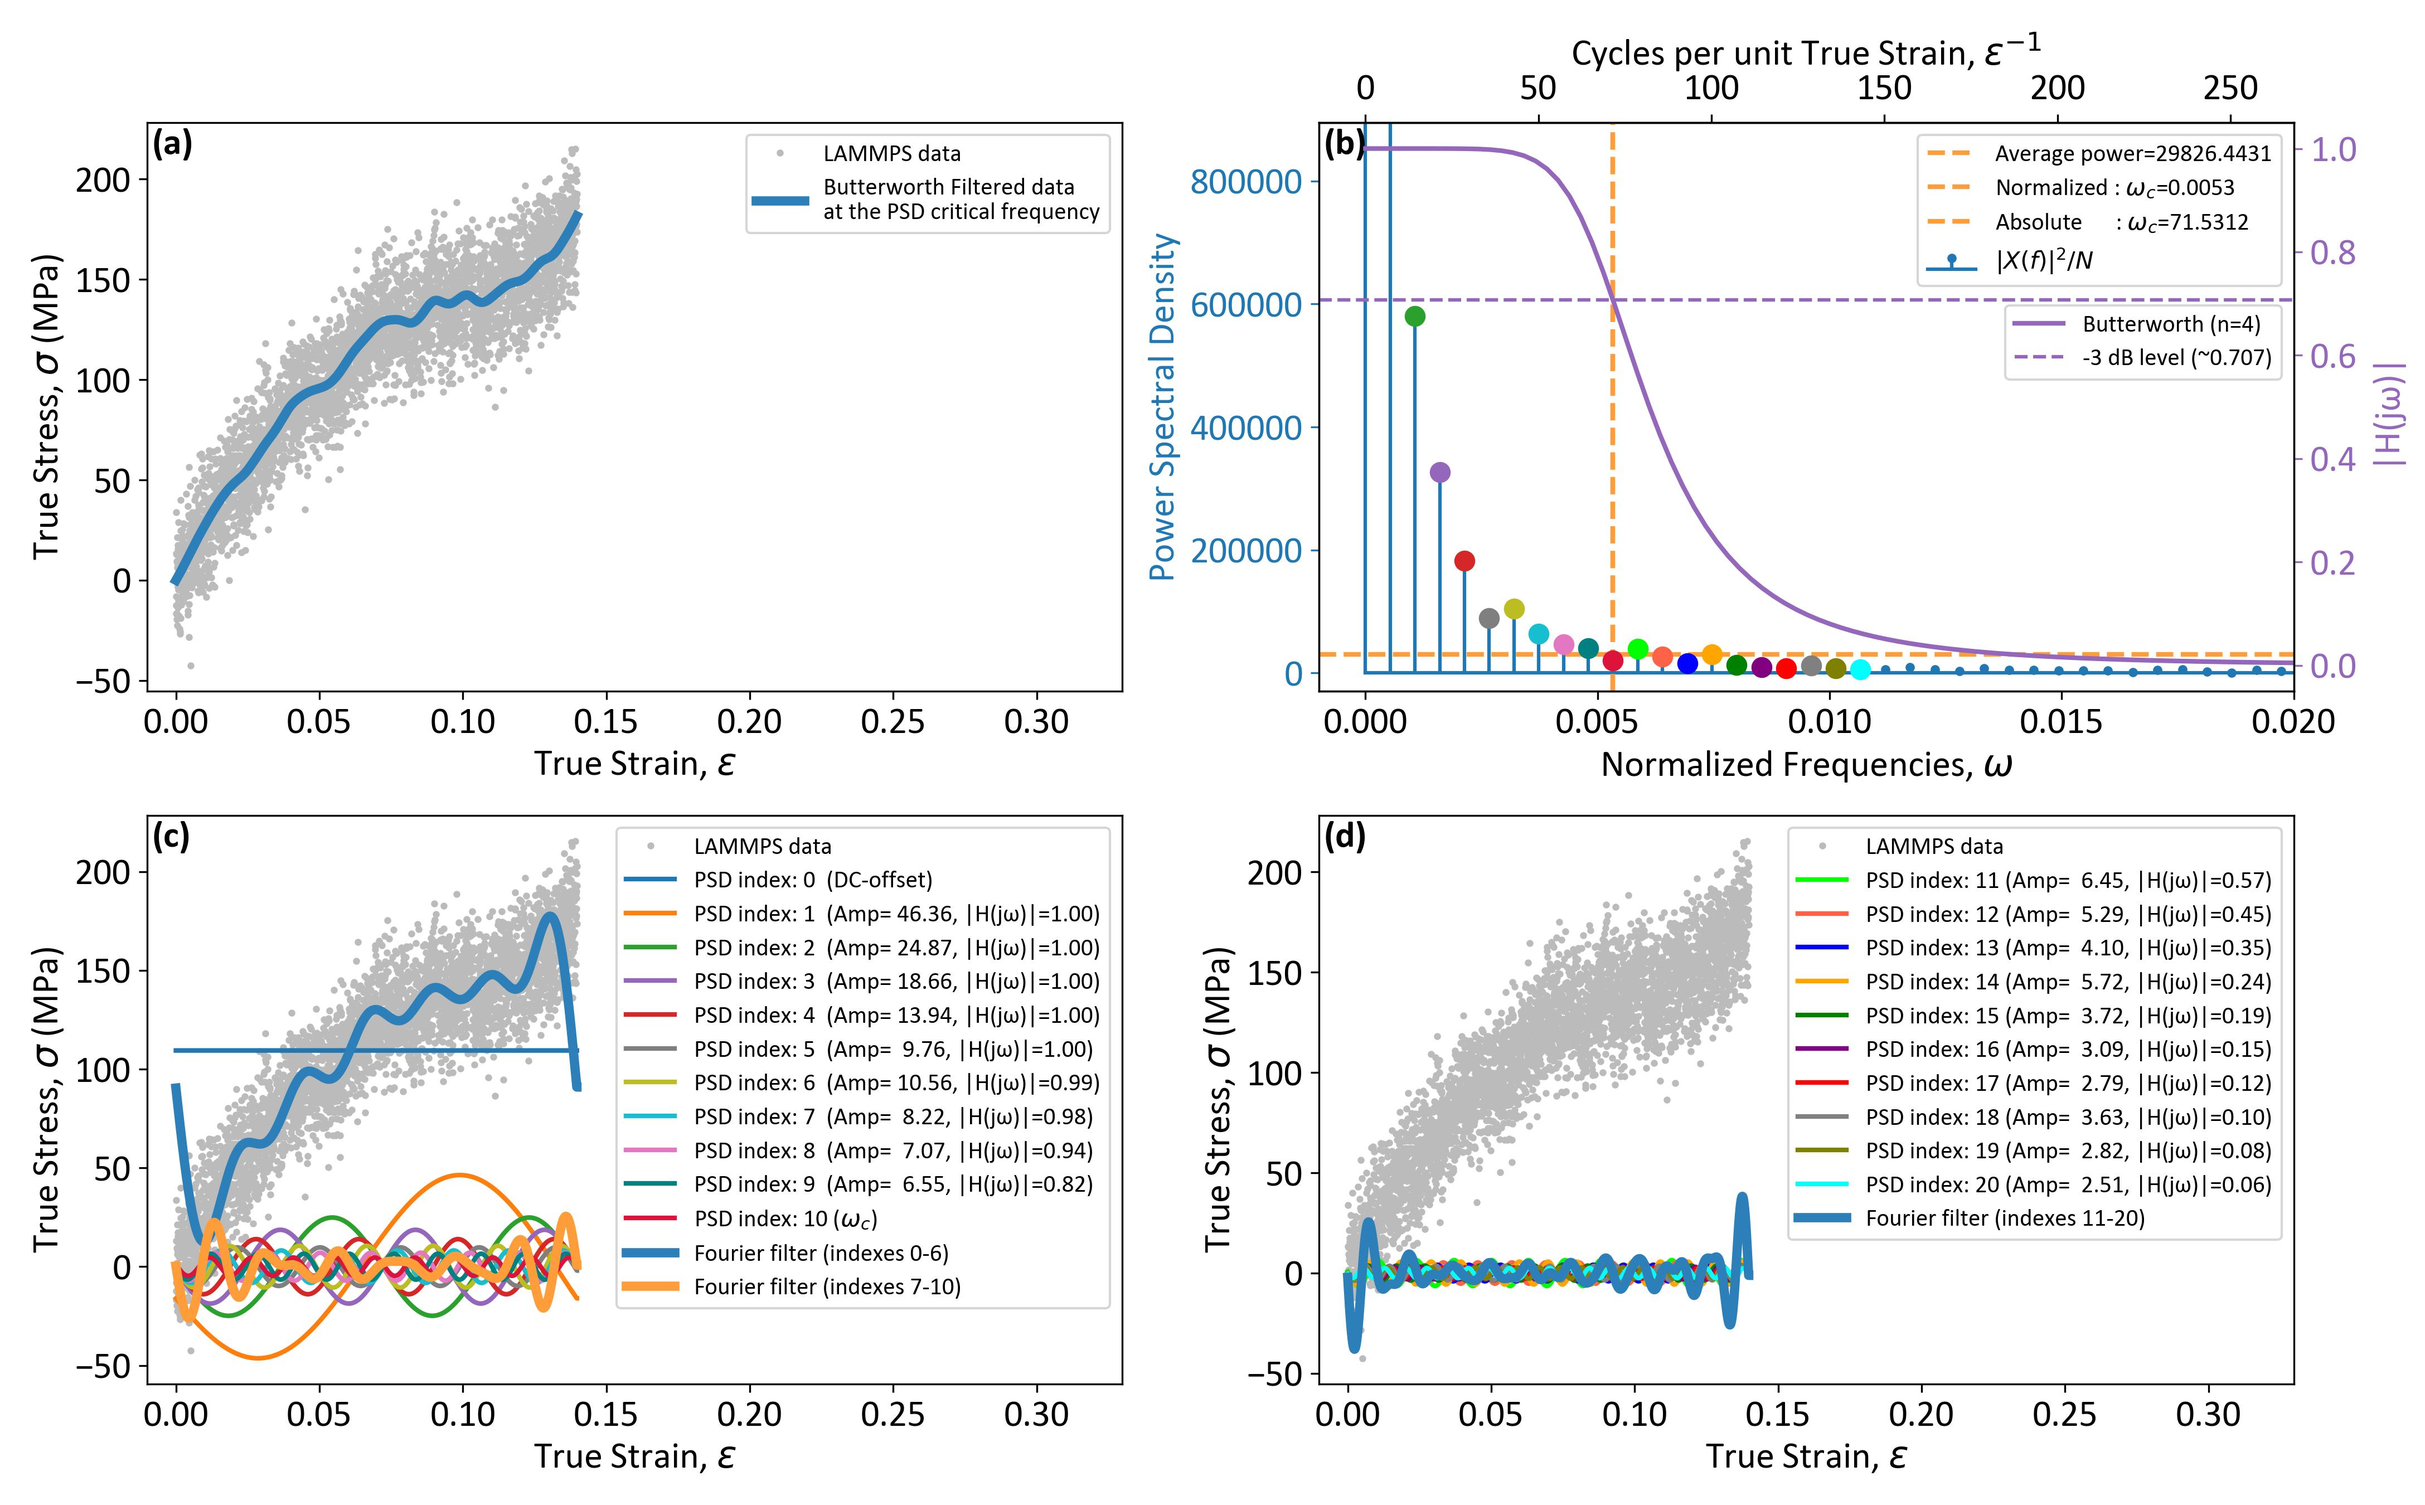
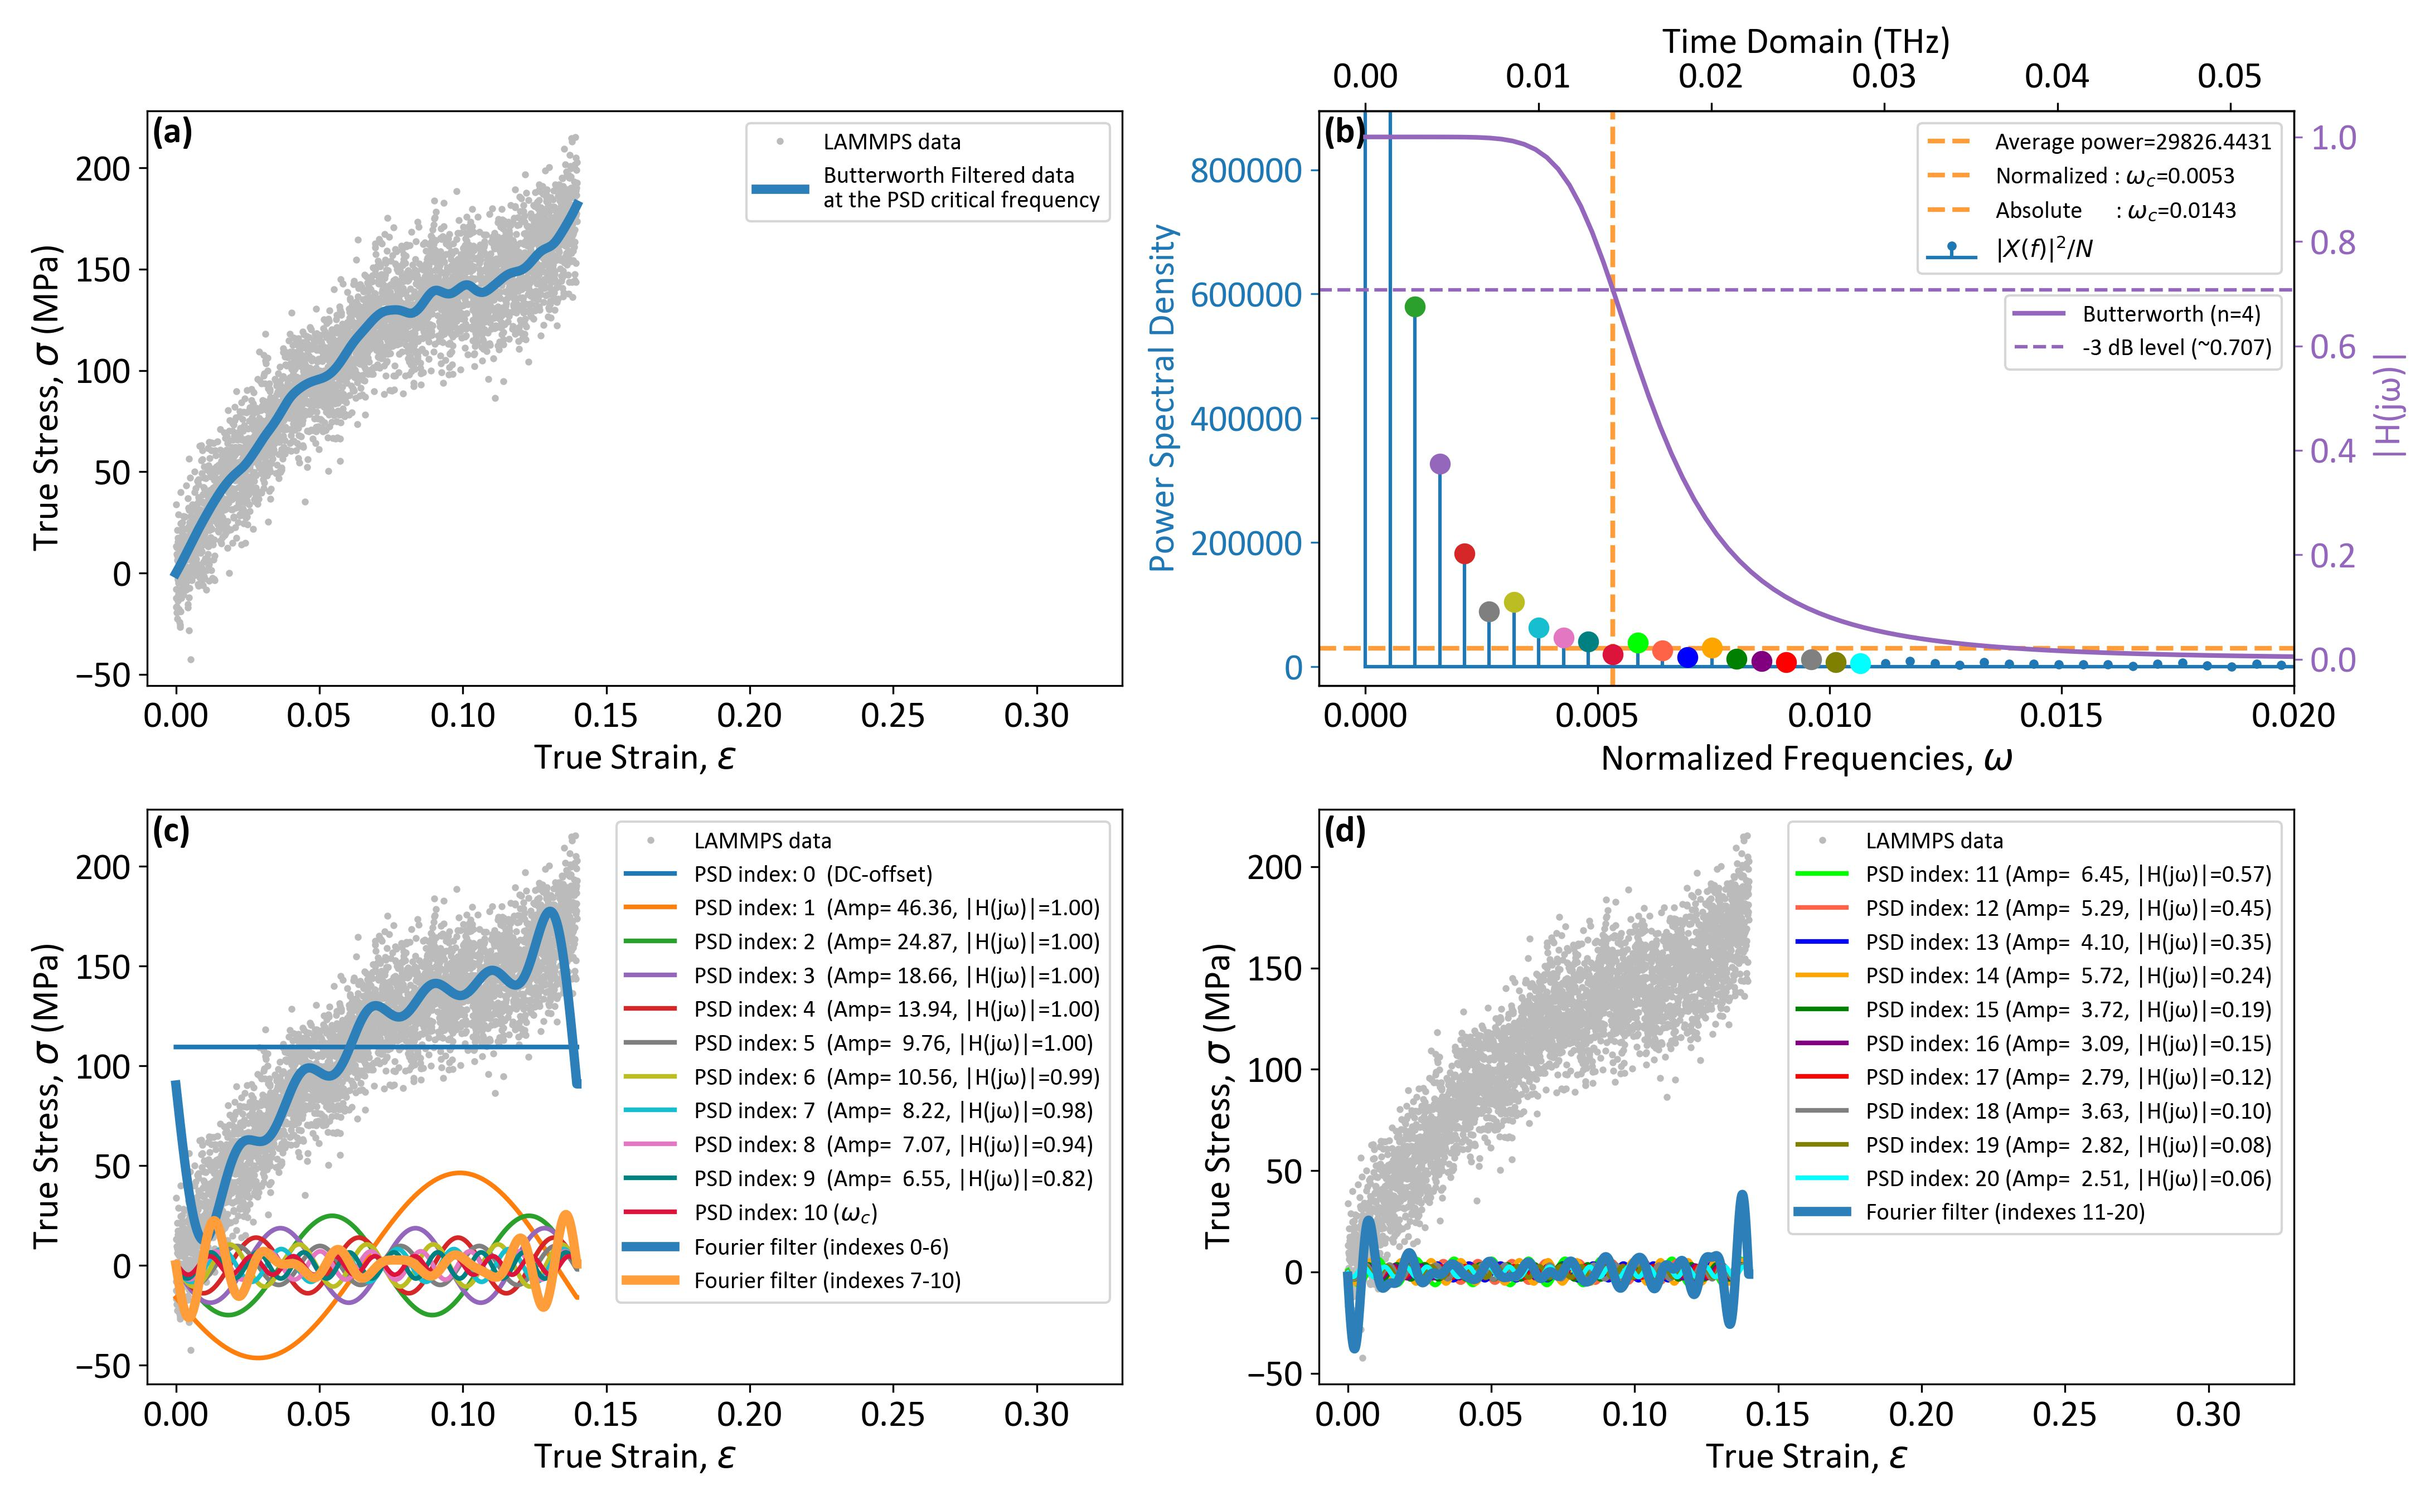
A few more minor revision to plot axis labels

diff --git a/Fourier_breakdown.py b/Fourier_breakdown.py
@@ -54,19 +54,22 @@ import scipy as sp
 logfile = 'logfiles/tensile_1_EPON_862_pxld_86.8_replicate_4_FF_PCFF.log.lammps'
 strain_direction = 'x'
 
-# logfile = 'logfiles/tensile_3_PBZ_pxld_87_replicate_5_FF_PCFF.log.lammps'
-# strain_direction = 'z'
+logfile = 'logfiles/tensile_3_PBZ_pxld_87_replicate_5_FF_PCFF.log.lammps'
+strain_direction = 'z'
 
-# logfile = 'logfiles/tensile_2_AroCy_L10_pxld_97_replicate_1_FF_PCFF.log.lammps'
-# strain_direction = 'y'
+logfile = 'logfiles/tensile_2_AroCy_L10_pxld_97_replicate_1_FF_PCFF.log.lammps'
+strain_direction = 'y'
 
-# logfile = 'logfiles/tensile_1_PEEK_pxld_90_replicate_3_FF_PCFF.log.lammps'
-# strain_direction = 'x'
+logfile = 'logfiles/tensile_1_PEEK_pxld_90_replicate_3_FF_PCFF.log.lammps'
+strain_direction = 'x'
 
 
 # Set some column keywords to find sections in logfile with thermo data.
 # *NOTE: You minimally need one keyword where 'Step' is a good choice.*
 keywords = ['Step']
+
+# Set strain rate
+strain_rate = 2e8 # 1/s
 
 
 # Set the sections of the logfile to get data from. Sections are counted
@@ -357,19 +360,19 @@ if __name__ == "__main__":
         
         # Put other units on top X-axis
         freq, wns, sample_rate = compute_freq(strain)
-        def wn2freq(wns):
-            return wns*(0.5*sample_rate)
+        def wn2freq(wns): # Tera-hertz
+            return wns*(0.5*sample_rate)*(strain_rate*1e-12)
         
         def freq2wn(freq):
             return freq/(0.5*sample_rate)
         
         ax2Top = ax2.secondary_xaxis('top', functions=(wn2freq, freq2wn))   
-        ax2Top.set_xlabel('Cycles per unit True Strain, {}{}'.format(r'$\epsilon$', '$^{-1}$'), fontsize=fs)
+        ax2Top.set_xlabel('Time Domain (THz)', fontsize=fs)
         ax2Top.tick_params(axis='both', which='major', labelsize=fs)
                 
 
         ax2.axvline(wn_stress, color='#ff9d3aff', ls='--', lw=2, label='Normalized : {}$_c$={:.4f}'.format(r'$\omega$', wn_stress))
-        ax2.axvline(wn_stress, color='#ff9d3aff', ls='--', lw=2, label='Absolute      : {}$_c$={:.4f}'.format(r'$\omega$', wn_stress*(0.5*sample_rate)))
+        ax2.axvline(wn_stress, color='#ff9d3aff', ls='--', lw=2, label='Absolute      : {}$_c$={:.4f}'.format(r'$\omega$', wn2freq(wn_stress)) )
         ax2.legend(loc='upper right', bbox_to_anchor=(1, 1), fancybox=True, ncol=1, fontsize=legend_fs_scale*fs)
         ax2.set_xlabel('Normalized Frequencies, {}'.format(r'$\omega$'), fontsize=fs)
         ax2.set_ylabel('Power Spectral Density', fontsize=fs, color=color)

diff --git a/Fourier_filter.py b/Fourier_filter.py
@@ -351,7 +351,7 @@ if __name__ == "__main__":
 
         ax1.axvline(wn_stress*(0.5*sample_rate), color='#ff9d3aff', ls='--', lw=2, label='Cutoff: {}$_c$={:.4f}'.format(r'$\omega$', wn_stress*(0.5*sample_rate)))
         ax1.legend(loc='upper right', bbox_to_anchor=(1, 1), fancybox=True, ncol=1, fontsize=legend_fs_scale*fs)
-        ax1.set_xlabel('Cycles per unit True Strain, {}{}'.format(r'$\epsilon$', '$^{-1}$'), fontsize=fs)
+        ax1.set_xlabel('Cycles max(Strain), {}{}'.format(r'$\epsilon$', '$^{-1}$'), fontsize=fs)
         ax1.set_ylabel('Power Spectral Density', fontsize=fs, color=color)
         ax1.tick_params(axis='x', which='major', labelsize=fs, colors='black')
         ax1.tick_params(axis='y', which='major', labelsize=fs, colors=color)

diff --git a/Cutoff_effects.py b/Cutoff_effects.py
@@ -61,8 +61,8 @@ strain_direction = 'x'
 # logfile = 'logfiles/tensile_2_AroCy_L10_pxld_97_replicate_1_FF_PCFF.log.lammps'
 # strain_direction = 'y'
 
-logfile = 'logfiles/tensile_1_PEEK_pxld_90_replicate_3_FF_PCFF.log.lammps'
-strain_direction = 'x'
+# logfile = 'logfiles/tensile_1_PEEK_pxld_90_replicate_3_FF_PCFF.log.lammps'
+# strain_direction = 'x'
 
 
 # Set some column keywords to find sections in logfile with thermo data.
